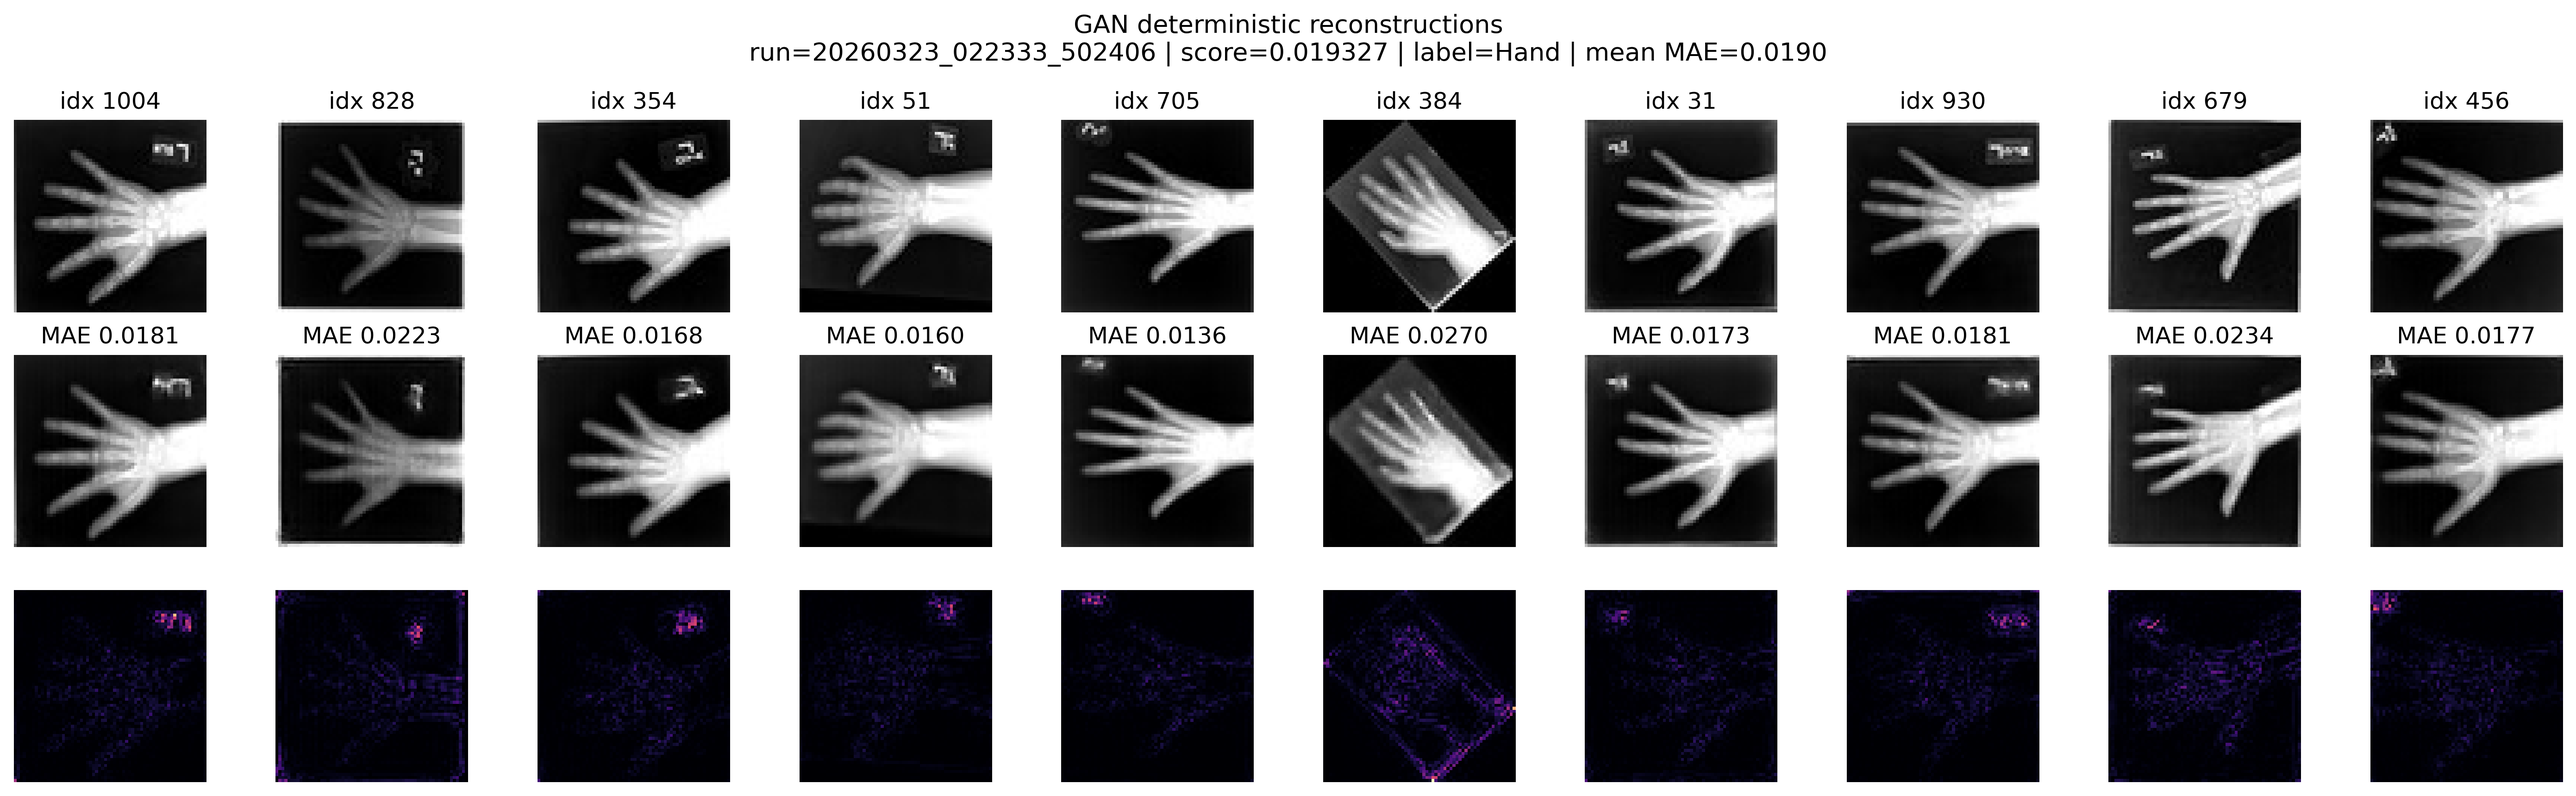
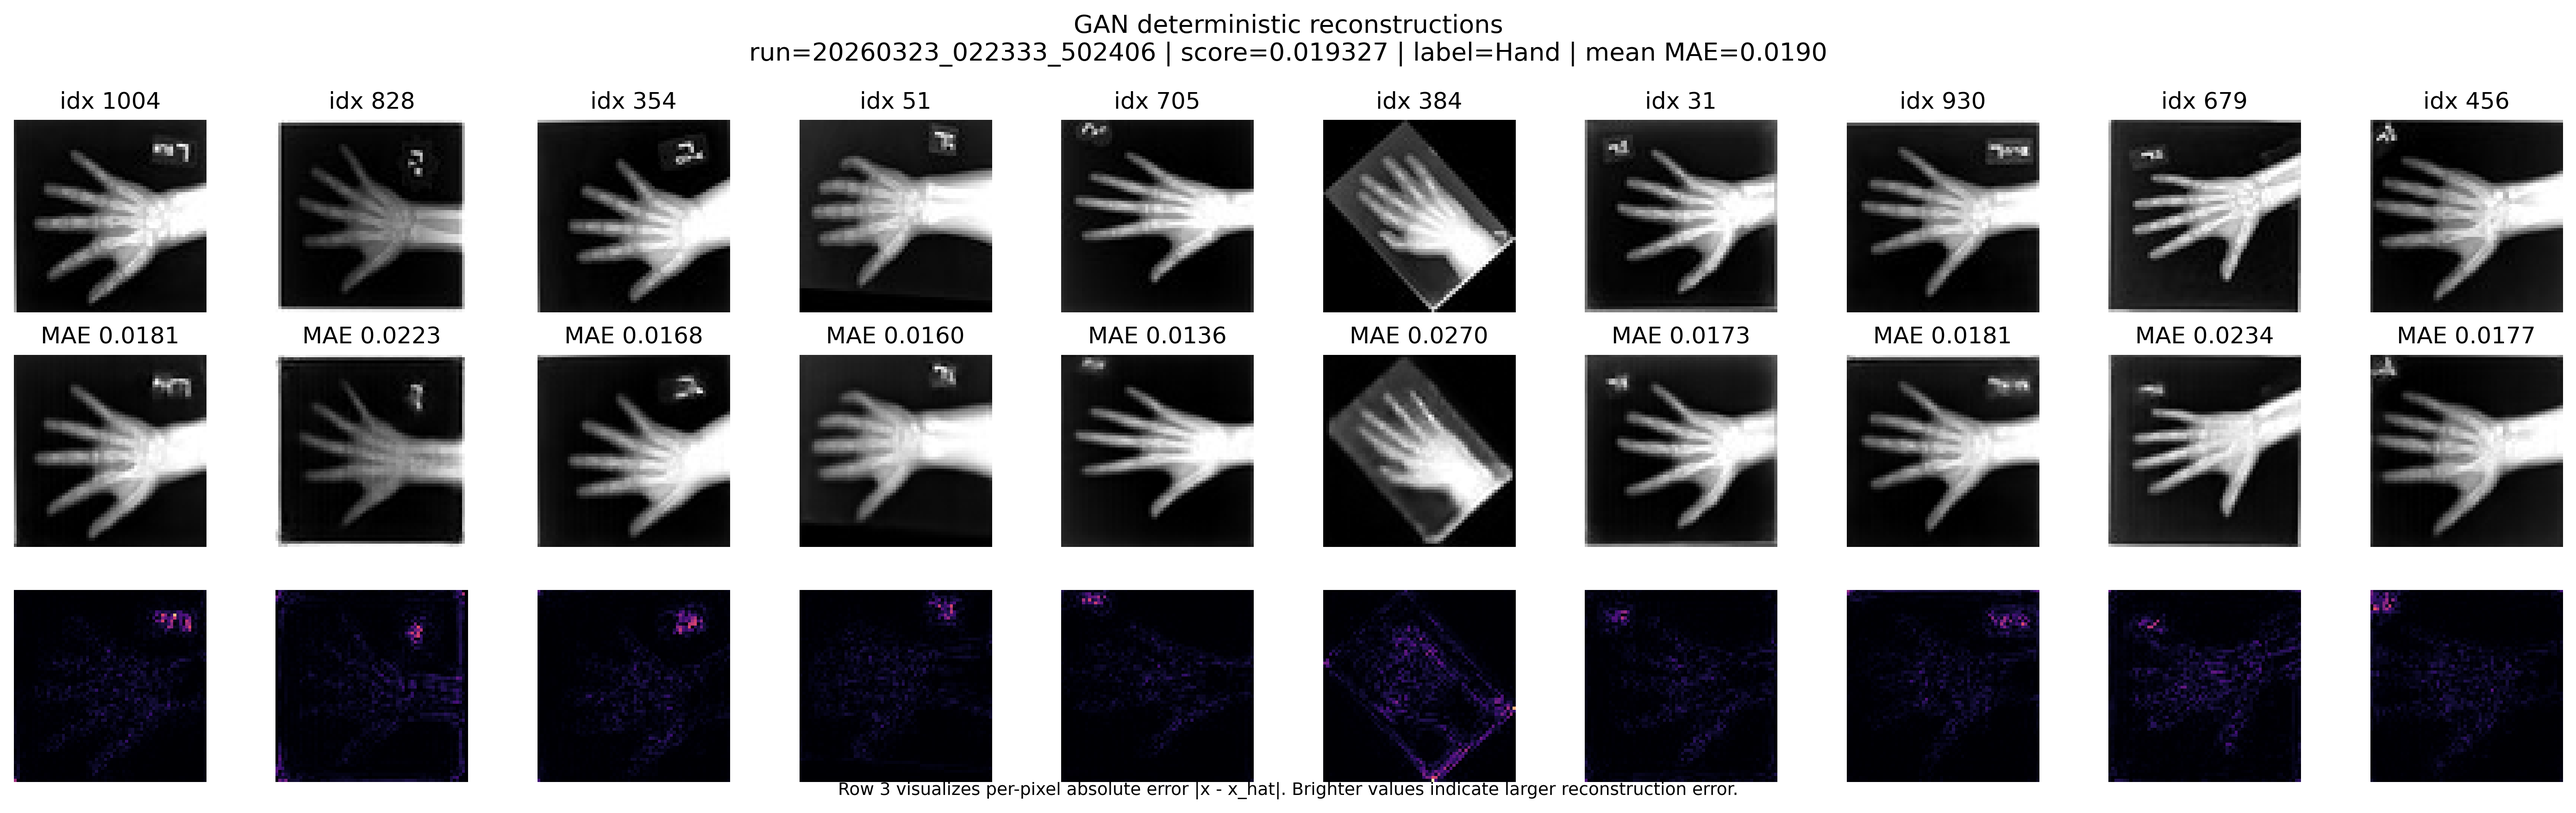
Now really for sure last commit

diff --git a/reconstruct_reference_samples.py b/reconstruct_reference_samples.py
@@ -273,12 +273,13 @@ def _save_reconstruction_panel(
     reconstructions_np = reconstructions.squeeze(1).numpy()
     errors_np = np.abs(originals_np - reconstructions_np)
     per_image_mae = errors_np.mean(axis=(1, 2))
+    max_error = max(0.1, float(errors_np.max()))
 
     figure, axes = plt.subplots(3, len(sample_indices), figsize=(1.9 * len(sample_indices), 5.8))
     for column, dataset_index in enumerate(sample_indices):
         axes[0, column].imshow(originals_np[column], cmap="gray", vmin=0.0, vmax=1.0)
         axes[1, column].imshow(reconstructions_np[column], cmap="gray", vmin=0.0, vmax=1.0)
-        axes[2, column].imshow(errors_np[column], cmap="magma", vmin=0.0, vmax=max(0.1, float(errors_np.max())))
+        axes[2, column].imshow(errors_np[column], cmap="magma", vmin=0.0, vmax=max_error)
 
         axes[0, column].set_title(f"idx {dataset_index}")
         axes[1, column].set_title(f"MAE {per_image_mae[column]:.4f}")
@@ -286,14 +287,21 @@ def _save_reconstruction_panel(
         for row in range(3):
             axes[row, column].axis("off")
 
-    axes[0, 0].set_ylabel("Original", fontsize=11)
-    axes[1, 0].set_ylabel("Reconstruction", fontsize=11)
-    axes[2, 0].set_ylabel("Abs Error", fontsize=11)
+    axes[0, 0].set_ylabel("Original (x)", fontsize=11)
+    axes[1, 0].set_ylabel("Reconstruction (x_hat)", fontsize=11)
+    axes[2, 0].set_ylabel("Abs Error |x - x_hat|", fontsize=11)
 
     figure.suptitle(
         f"{model_type} deterministic reconstructions\n"
         f"run={run_info.run_dir.name} | score={run_info.score:.6f} | label={selected_label} | mean MAE={per_image_mae.mean():.4f}",
         fontsize=13,
+    )
+    figure.text(
+        0.5,
+        0.01,
+        "Row 3 visualizes per-pixel absolute error |x - x_hat|. Brighter values indicate larger reconstruction error.",
+        ha="center",
+        fontsize=9,
     )
     figure.tight_layout()
 
@@ -309,6 +317,11 @@ def _save_reconstruction_panel(
         "selected_label": selected_label,
         "sample_indices": sample_indices,
         "selection_dataset": "MedNIST validation section with deterministic no-cache preprocessing",
+        "panel_rows": {
+            "row_1": "Original (x)",
+            "row_2": "Reconstruction (x_hat)",
+            "row_3": "Absolute error map |x - x_hat|",
+        },
         "score": run_info.score,
         "mean_mae": float(per_image_mae.mean()),
         "per_image_mae": [float(value) for value in per_image_mae],

diff --git a/REPORT.md b/REPORT.md
@@ -20,7 +20,15 @@ In this report, all runs are `Hand`-trained except `20260323_120641_328800`, whi
 ## Data Source
 
 - `runs/*/*/hyperparameters.json`
-- `runs/*/*/metrics.json` (when present)
+- `runs/*/*/metrics.json`
+
+## Reconstruction Panel Interpretation
+
+For `GAN - Deterministic Reference Reconstructions` and `LDM - Deterministic Reference Reconstructions`:
+
+- Row 1: original reference image (`x`)
+- Row 2: deterministic reconstruction from latent mean (`x_hat`)
+- Row 3: absolute error map (`|x - x_hat|`), where brighter values indicate larger reconstruction error
 
 ## Summary
 
@@ -747,7 +755,7 @@ Case in point: when I tried to drastically decrease the diffusion model channels
 
 **When it came to the results of the VAE-only GAN (all):**
 
-Interpolated gif showed visible hands, albeit blurry. Intermediate visualisations, as it went through the latent space, looked less convincing and more scary, but overall a better result that originally saw in class (which had a latent space of 3).
+Interpolated gif showed visible hands, albeit blurry. Intermediate visualisations, as it went through the latent space, looked less convincing and more scary, but overall a better result that originally saw in class (which had a latent channels of 3).
 
 **When it came to the results of the Latent Diffusion Model (20260323_005636_016702):**
 
@@ -757,6 +765,6 @@ For the rest of the results, I tried significantly lower diffusion channels, so 
 
 I think it is also worth noting that the LDM is significantly slower than the GAN. It takes roughly an hour and a half to run on my RTX 4060Ti with 16 GB of VRAM, compared to 20 minutes give or take a minute of train time for the VAE-only GAN.
 
-I have also tried to only increase latent space (GAN: 20260323_103245_605233, LDM: 20260323_105355_312052) to 24, and from what I observed, results were rather poor on both sides, and more noticeably so on the LDM's Diffusion Model - Decoded Intermediates Every 100 Steps.png file where a full hand could not be reconstructed even after the last steps.
+I have also tried to only increase latent channels (GAN: 20260323_103245_605233, LDM: 20260323_105355_312052) to 24, and from what I observed, results were rather poor on both sides, and more noticeably so on the LDM's Diffusion Model - Decoded Intermediates Every 100 Steps.png file where a full hand could not be reconstructed even after the last steps.
 
 All in all, my best result, in my opinion, was with the Latent Diffusion Model with the Diffusion Model having [128, 256, 512] channels with 12 latent channels.

diff --git a/README.md b/README.md
@@ -162,6 +162,10 @@ Behavior:
 - loads each run checkpoint and reconstructs 10 deterministic validation images
 - uses run-specific label metadata from `hyperparameters.json -> common.selected_label` (or `settings.SELECTED_LABEL` when metadata is absent)
 - saves outputs under each run's `plots/`
+- reconstruction panel interpretation:
+  - row 1: original reference image (`x`)
+  - row 2: deterministic reconstruction from latent mean (`x_hat`)
+  - row 3: per-pixel absolute error map (`|x - x_hat|`), where brighter values mean larger error
 
 ## 9. Notes on Method
 
